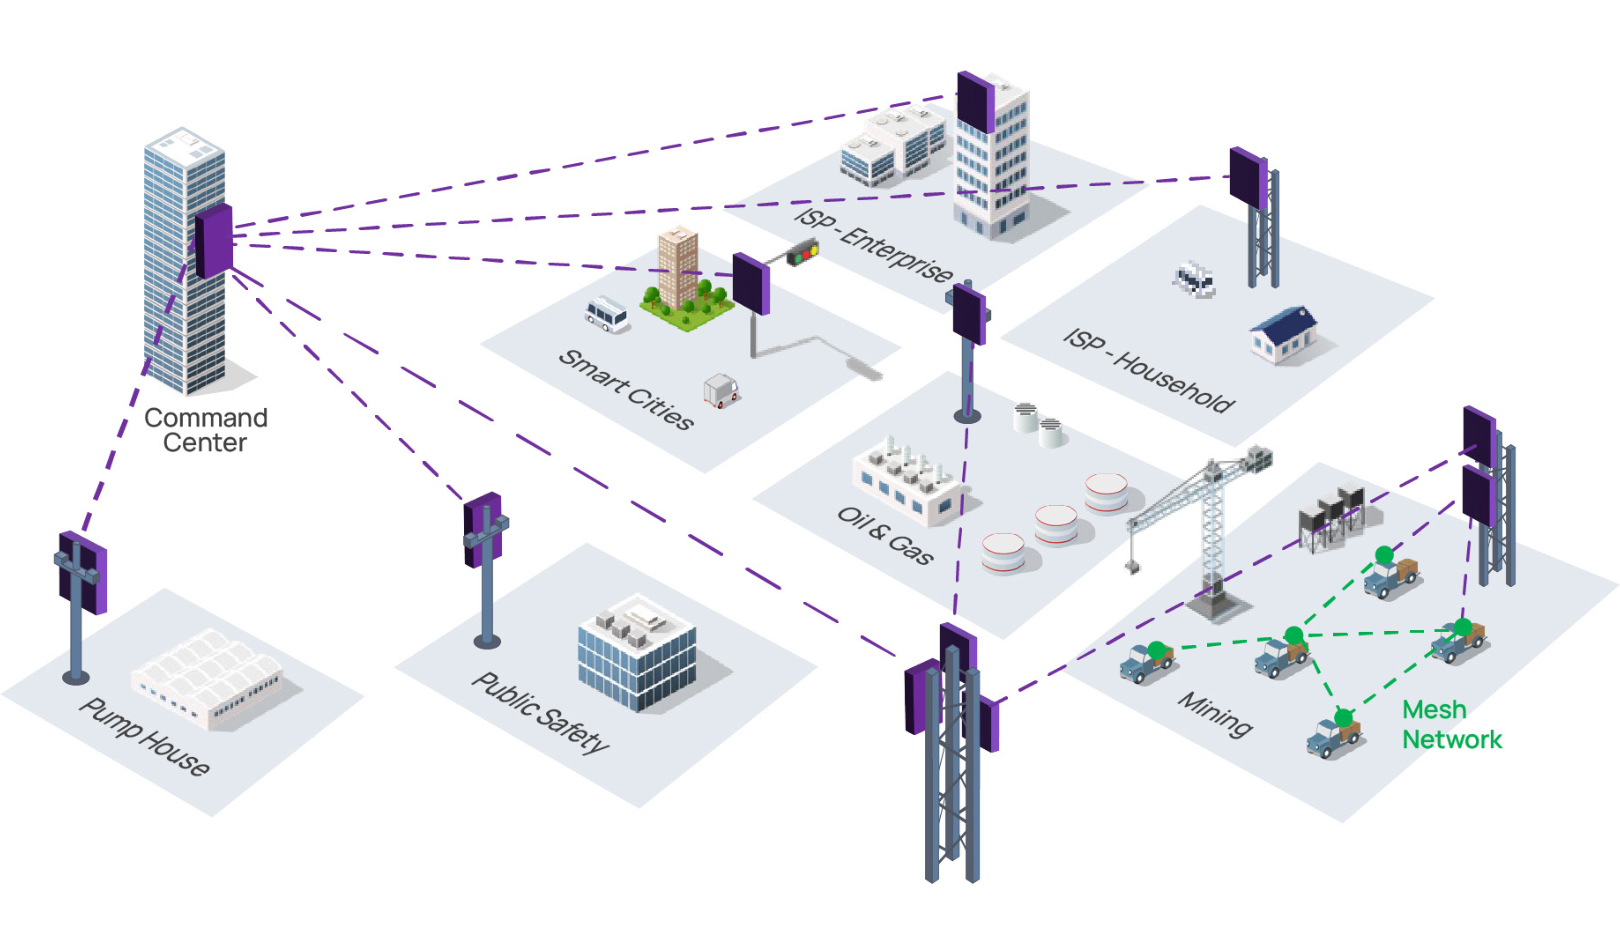
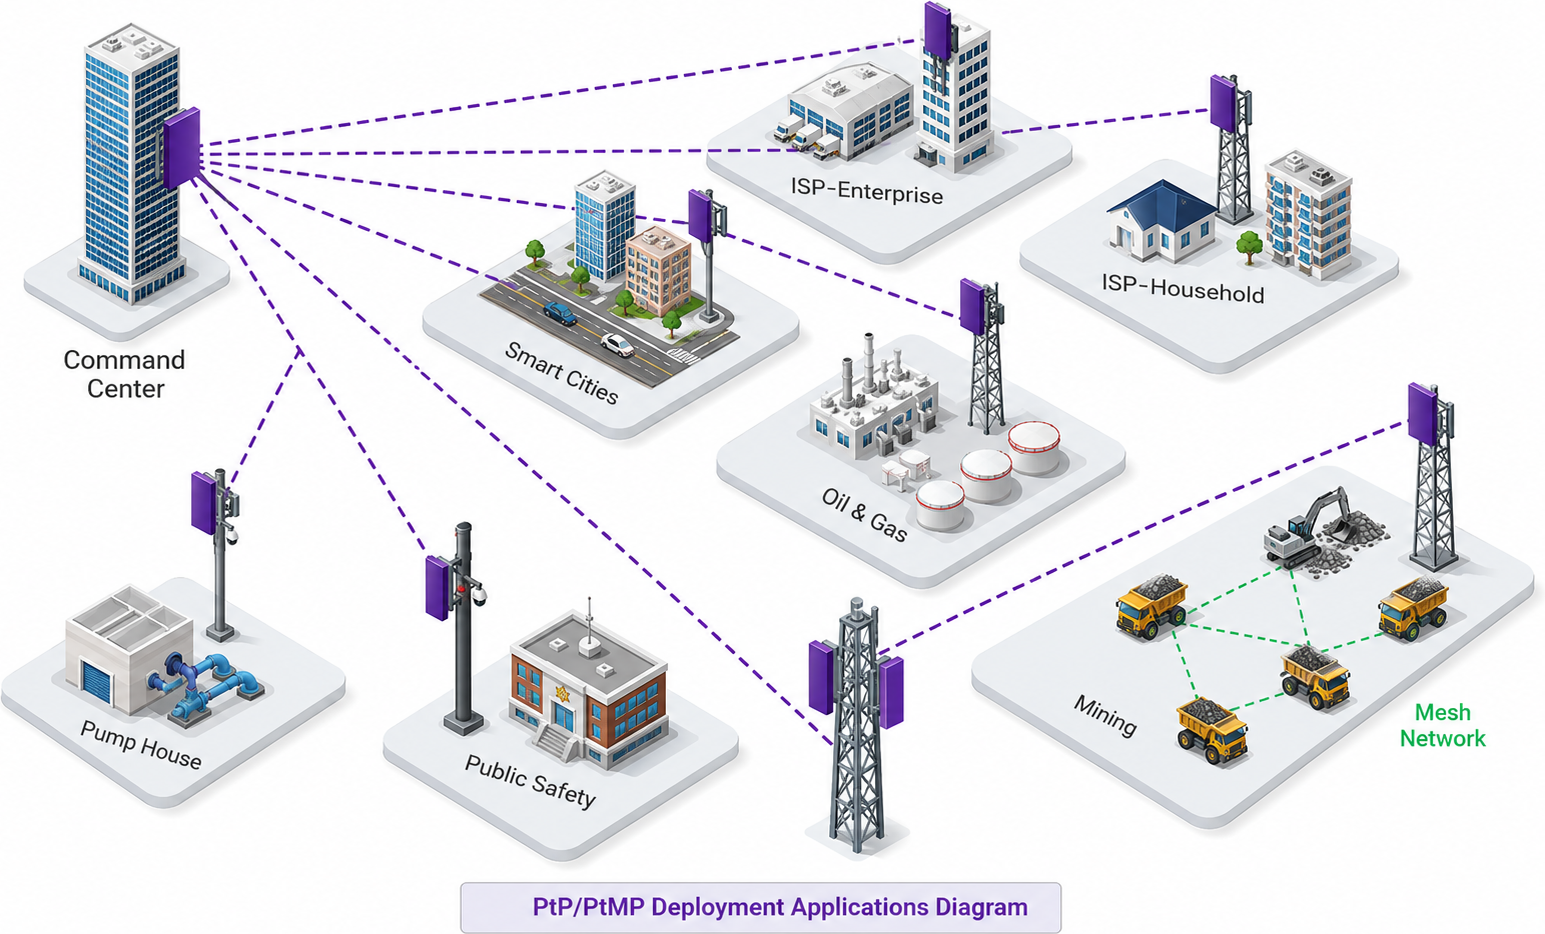
feat(eoc): new deployment diagram, centred in the space the list leaves
Replaces the artwork with the clearer version PM supplied. It carries its
own caption box — deliberately, so the live .deploy-caption is gone from
both call sites (and its CSS rule with it) rather than printing the label
twice. Same trap this file hit with the hero.

Placement: the diagram now centres in whatever vertical space the feature
list doesn't use, instead of sitting at a fixed margin below it. A fixed
margin only balanced the longest list — EOC655 came out 38pt above / 38
below while EOC600, two features shorter, was 39 above / 80 below. Now:
EOC655 41/41, EOC600 63/62, EOC655-C23 10/9.

The series page is untouched by this — it renders .deploy without
.compact, so the flex rule doesn't reach it — and it gains 20pt of bottom
clearance from losing the live caption.

diff --git a/apps/spechub/src/app/(print)/preview/[model]/broadband-preview.tsx b/apps/spechub/src/app/(print)/preview/[model]/broadband-preview.tsx
@@ -388,7 +388,10 @@ body {
 }
 
 /* ── benefits page ─────────────────────────────────────────────────── */
-.benefits-page { position: absolute; top: 21pt; left: 36pt; right: 36pt; }
+.benefits-page {
+  position: absolute; top: 21pt; left: 36pt; right: 36pt; bottom: 46pt;
+  display: flex; flex-direction: column;
+}
 .benefits-title { padding: 22pt 0 12pt; }
 .benefits-grid {
   display: grid; grid-template-columns: 1fr 1fr; gap: 0 26pt;
@@ -403,13 +406,11 @@ body {
 .benefits-note { font-size: 7pt; font-weight: 300; color: #a7a9ac; margin-top: 8pt; }
 .deploy { margin-top: 16pt; display: flex; justify-content: center; }
 .deploy img { max-width: 100%; max-height: 320pt; object-fit: contain; }
-/* per-model p2 shares the page with the full feature list */
-.deploy.compact { margin-top: 12pt; }
-.deploy.compact img { max-height: 252pt; }
-.deploy-caption {
-  margin-top: 8pt; text-align: center; font-size: 8pt; color: #4a4a4a;
-  background: ${ROW_ALT}; padding: 4pt 0;
-}
+/* per-model p2 shares the page with the full feature list; the diagram
+   centres in whatever vertical space that list leaves, so every model
+   lands balanced regardless of how many features it has */
+.deploy.compact { flex: 1; margin-top: 0; align-items: center; }
+.deploy.compact img { max-height: 266pt; }
 
 /* ── spec table ────────────────────────────────────────────────────── */
 .specs-page { position: absolute; top: 21pt; left: 34pt; right: 37pt; }
@@ -584,7 +585,6 @@ body {
                 {/* eslint-disable-next-line @next/next/no-img-element */}
                 <img src={deployImg} alt="PtP/PtMP deployment applications" />
               </div>
-              <div className="deploy-caption">PtP/PtMP Deployment Applications Diagram</div>
             </>
           )}
         </div>
@@ -600,7 +600,6 @@ body {
               {/* eslint-disable-next-line @next/next/no-img-element */}
               <img src={deployImg} alt="PtP/PtMP deployment applications" />
             </div>
-            <div className="deploy-caption">PtP/PtMP Deployment Applications Diagram</div>
           </div>
           <div className="page-number">{nextPage()}</div>
         </div>